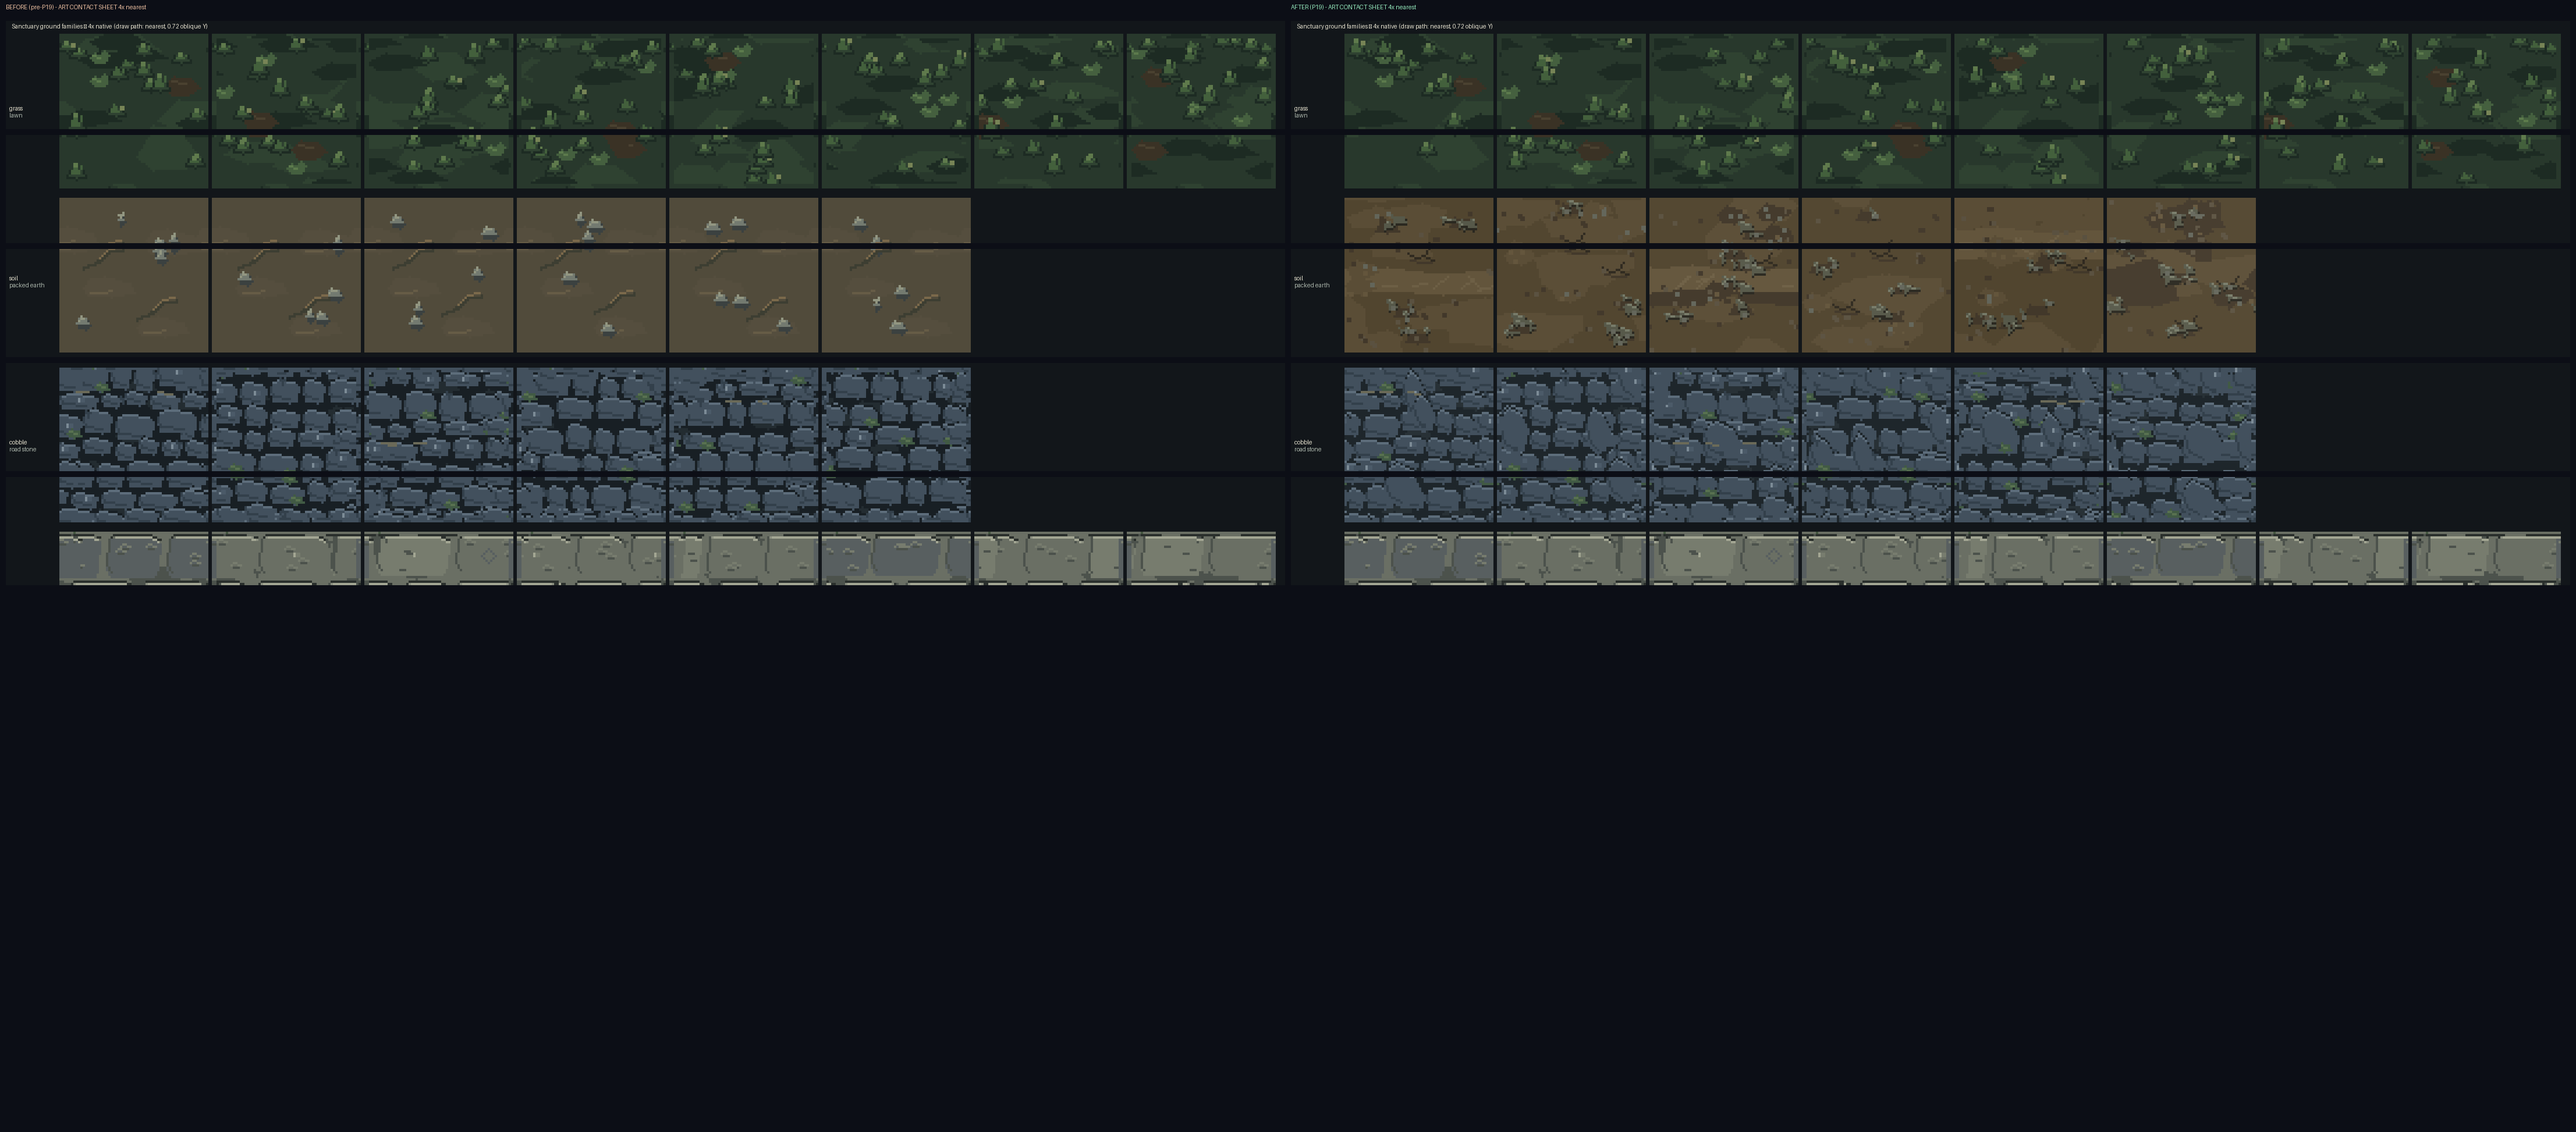
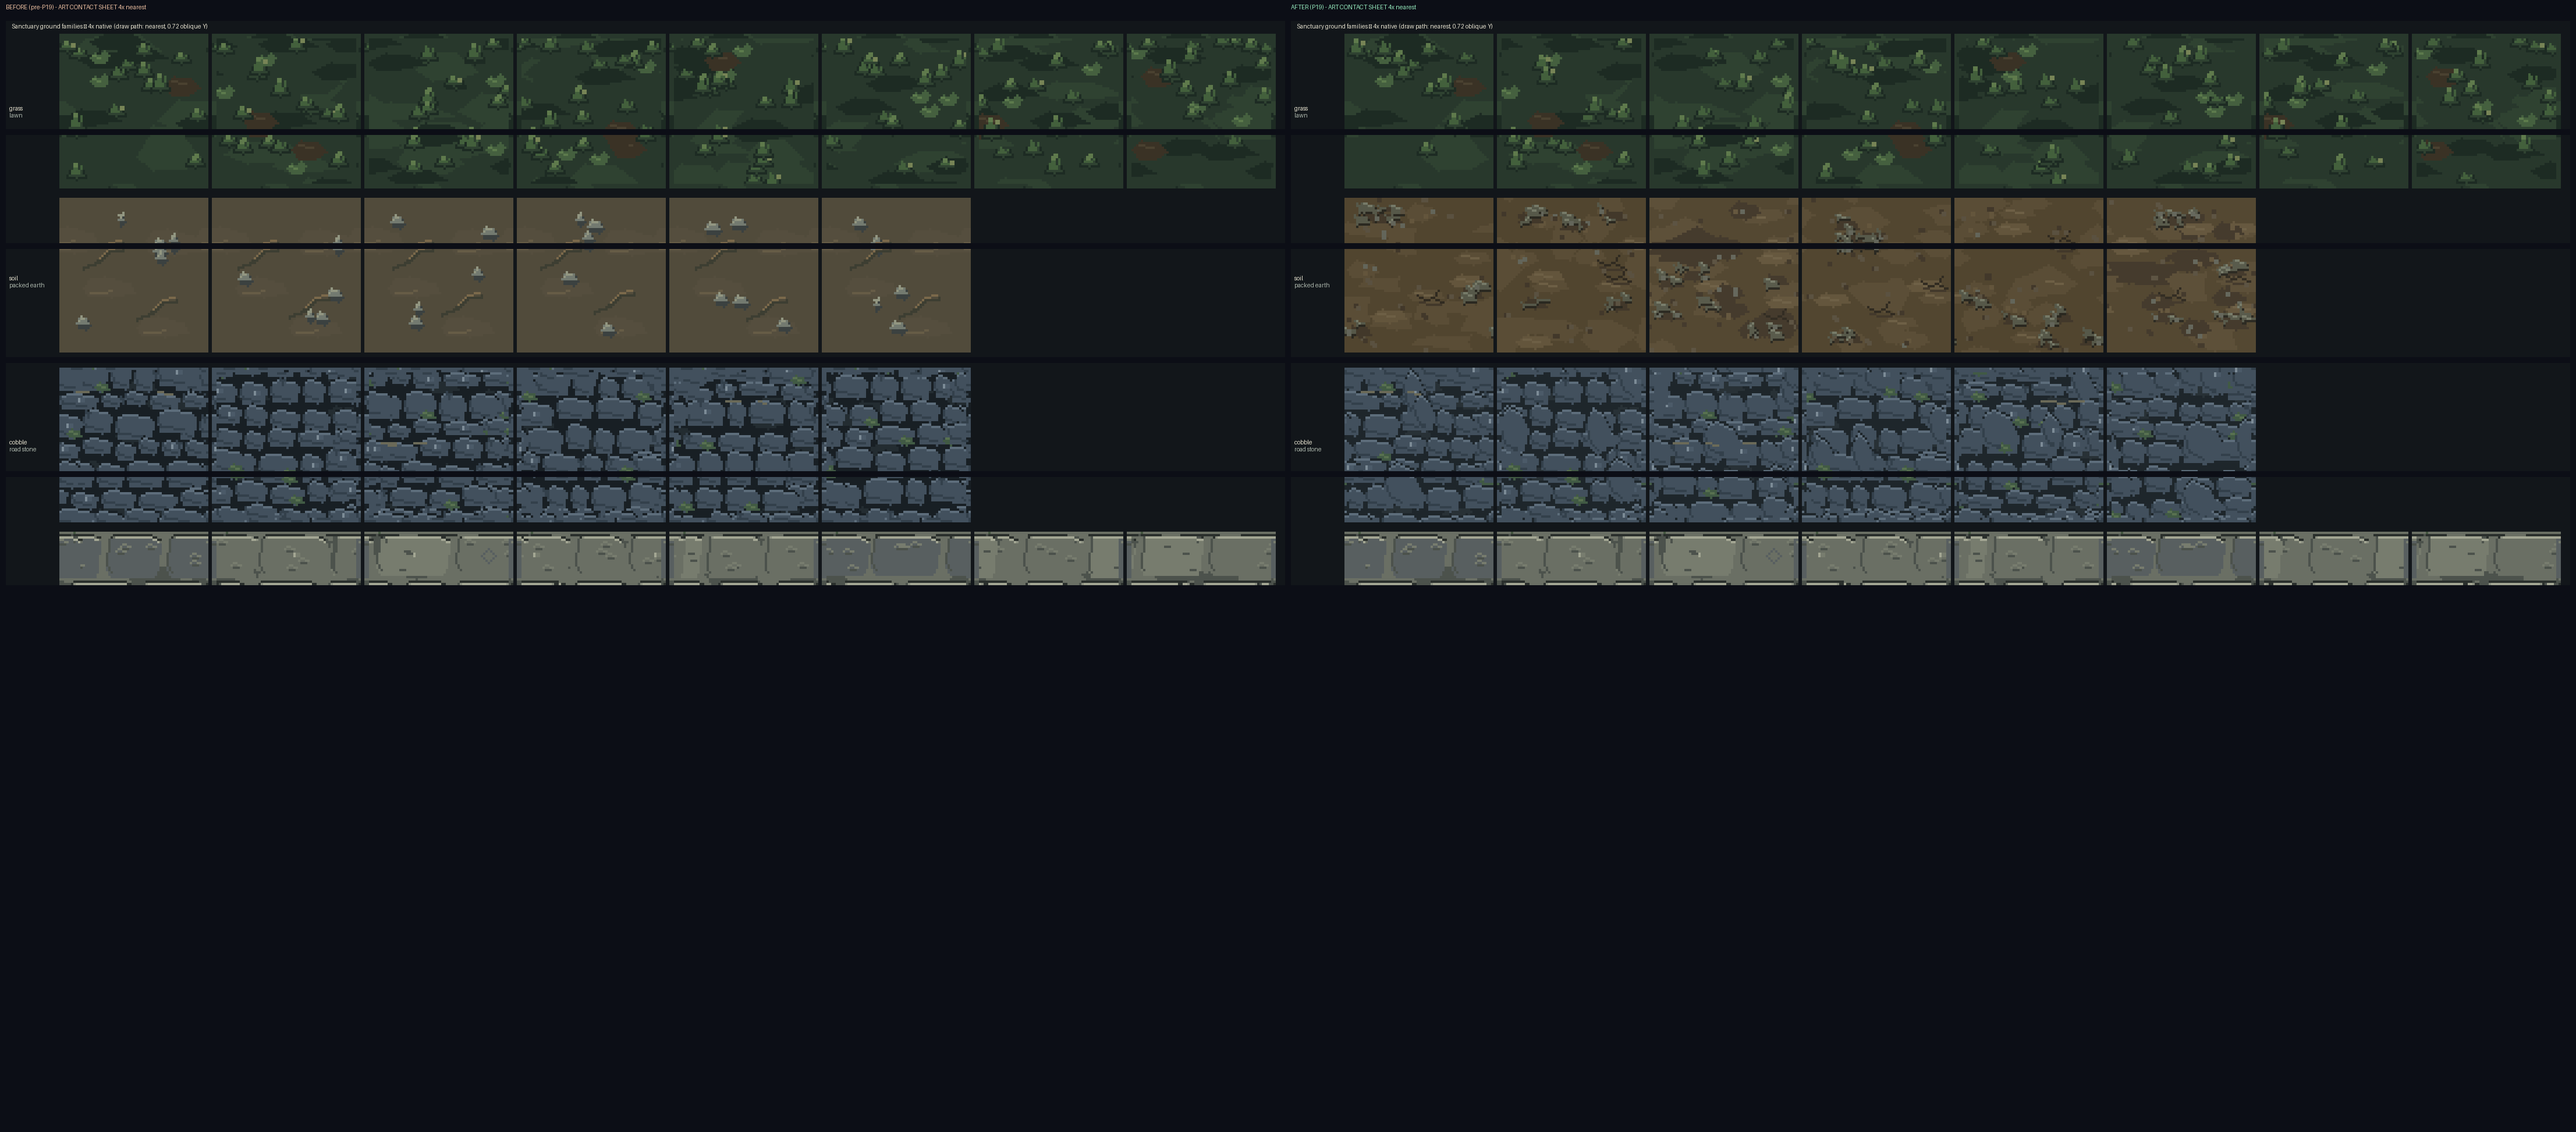
P19: docs + evidence composites (before/after contact sheet, real-engine side-by-side)

diff --git a/docs/art/P19_REPORT_VI.md b/docs/art/P19_REPORT_VI.md
@@ -1,0 +1,108 @@
+# P19 — Báo cáo (tiếng Việt): độ đồng nhất bề mặt nền
+
+**Phạm vi:** chỉ art. Không đổi layout, độ rộng đường, anchor công trình, cửa vào, collision,
+camera (`OBLIQUE_Y_SCALE = 0.72`), vị trí prop hay logic gameplay. Batch 4×4 cỏ của P16,
+culling đường và nearest sampling giữ nguyên.
+
+## 1. Chẩn đoán (render thật, camera cố định)
+
+Camera cố định trong `MapForgeTerrainRenderTest` (0.36 / 0.88 / 1.00 / 1.48) → hai bộ
+`engine-render-before/` (main) và `engine-render/` (P19) so sánh trực tiếp được.
+
+| # | Lỗi thấy trong renderer thật | Bằng chứng |
+|---|---|---|
+| 1 | Sàn bãi tập là mảng nâu phẳng + đốm sáng 1 px rải rác → phẳng và "procedural" hơn hẳn cỏ/đường của P18 | `terrain_training_default.png`, `terrain_training_close.png` |
+| 2 | Dải sỏi giữa cỏ và cát chỉ là confetti, không đọc ra "đá nhỏ", nên chuyển chất liệu cỏ→sỏi→đất bị gãy | `terrain_arena_rim.png` |
+| 3 | Mạch vữa cobble chạy thành dải ngang hết bề rộng tile → ở 1.48 đường đọc như tường gạch | `terrain_road_joints_close.png`, `tiles_seams_5x5_before.png` |
+| 4 | Cụm cỏ đều cỡ, pixel sáng nhất vẫn bật cả ở cụm nhỏ → 1.48 hơi "đốm", 0.36 hơi rậm | `terrain_lawn_close.png` |
+
+Số liệu gốc (`tiles_stats_before.json`): soil 8 màu/variant, gravel 6, grass 8–10,
+cobble 9–10, flagstone 9. 8 màu không đủ để có base → shade → highlight → vữa → sạn.
+
+## 2. Đã thay gì
+
+### `soil_0..5` (viết lại, 64×64 RGBA, seamless)
+- **3 thang giá trị**: mảng đất nhỏ (6–14 px, lệch 1 bậc), vệt đầm nén ngắn/đứt (không bao
+  giờ thành dải hết bề rộng), 3–5 cụm sỏi nằm trong vùng đất bị xáo.
+- Sỏi: bóng tiếp xúc dưới-phải, thân, 1 px rim sáng trên-trái; tông xám lạnh để ăn nhập bộ
+  từ vựng cobble.
+- Vết nứt khô 1 px (có đường shade bên cạnh), sạn mịn tương phản thấp.
+- 8 → **11 màu**/variant. **Cân bằng tông giữa các variant** (xem §3).
+
+### `gravel_0..3` (viết lại)
+- 6–8 cụm × 2–5 viên sỏi trên nền đất thô; rêu chỉ ở 2 variant ẩm.
+- Mật độ tiết chế để chân hero nhỏ không bị "nuốt" ở 0.88.
+- 6 → **9–11 màu**/variant, giá trị đá tương thích cobble nhưng ít hình học hơn.
+
+### `cobble_0..5` (chỉ tinh chỉnh mạch)
+- Thêm 3–4 **break stone**/tile bắc qua ranh giới lớp → cắt dải vữa liền mạch thành đoạn ngắn.
+- Vữa thu còn 1–2 px, nâng từ `#181f24` → `#1e262b` (giảm tương phản "báo đốm").
+- Không đổi số đá, mask đường, độ rộng hay culling.
+
+### `grass_0..7` (chỉ mật độ)
+- 10–13 cụm (trước 12–16), dịch phân bố về cỡ trung, pixel sáng nhất chỉ bật ở cỡ > 0,
+  3 cụm focal thay vì 2. Cách ghép block 4×4 không đổi.
+
+### Sinh asset
+`tools/mapforge_ground.py` (mở rộng, deterministic, chạy offline). Helper mới: `pebble()`,
+`pebble_cluster()`, `mean_luma()`, `equalize_tone()`. Manifest `sha256`/`size` làm mới;
+`tools/validate_assets.py` PASS.
+
+## 3. Hai lỗi do chính pass này gây ra và đã sửa
+
+1. **Khung viền 2 px.** Bước copy viền dùng chung của P18 dán viền variant 0 vào mọi tile.
+   Với vật liệu đất có mảng lớn, viền đó không khớp ruột tile → hiện **khung chữ nhật** quanh
+   từng tile soil/gravel. Đã cho 2 family đất **opt-out** (`shared = False`); grass/cobble/
+   flagstone vẫn giữ.
+2. **Bàn cờ theo variant.** Bản đầu cho một số variant nền tối hơn + dải đầm nén hết bề rộng.
+   Vì renderer chọn variant bằng hash, bãi tập thành **khung bàn cờ 56 px** ở 0.88. Sửa bằng:
+   (a) thu mọi feature đất xuống nhỏ hơn tile, (b) bỏ chênh lệch giá trị giữa variant,
+   (c) `equalize_tone()` kéo trung bình luma từng variant về variant 0 (lệch tối đa ±12, chỉ
+   cộng offset đều 3 kênh nên không đổi hue). Đo lại: soil 74.8–75.3, gravel 69.1–69.3.
+
+## 4. Bằng chứng
+
+`docs/visual-evidence/p19/`
+
+| file | nhãn |
+|---|---|
+| `engine_before_after.png` | **REAL ENGINE RENDER** cạnh nhau (bãi tập 0.88, cobble 1.48) |
+| `engine-render/*.png` | **REAL ENGINE RENDER** — asset P19, 8 camera cố định |
+| `engine-render-before/*.png` | **REAL ENGINE RENDER** — asset main (trước P19), cùng 8 camera |
+| `before_after_side_by_side.png` | **ART CONTACT SHEET** — 4× nearest |
+| `tiles_contact_1x_*`, `tiles_contact_4x_*` | **ART CONTACT SHEET** |
+| `tiles_mosaic_*` | **ART CONTACT SHEET** — mosaic oblique 0.36/0.88/1.48 |
+| `tiles_seams_5x5_*` | **SEAM CHECK** — mỗi variant lát 5×5 ở 1× |
+| `tiles_stats_*.json` | số màu/variant |
+
+## 5. Build & QA
+
+- `tools/validate_assets.py` → PASS (package `com.aistudio.eternalsummoner.kvrpzm`)
+- `tools/validate_lyra_pack.py` → PASS
+- CI `assembleDebug` và render job: xem mục "Build/QA status" trong PR #22 (run ID ghi kèm).
+- **FPS / nhiệt lượng thiết bị: NOT TESTED** (không có máy thật hay emulator có
+  instrumentation trong môi trường này).
+- Test đề xuất trên máy: pan/zoom cố định 0.36/0.88/1.48 trong 5 phút, ghi frame pacing,
+  RAM và nhiệt so với build trước; dừng nếu throttle.
+
+## 6. Ảnh hưởng RAM / runtime
+
+- Số asset **không đổi**: grass 8, cobble 6, flagstone 8, soil 6, gravel 4, verge, oak.
+  Không thêm file/family, không đổi contract manifest.
+- RAM decode **không đổi**: 34 asset 64×64×4 B ≈ 0,55 MB + oak ≈ 61 KB + 27 block cỏ
+  (256×184×4 B) ≈ 5,1 MB — giống P18/P16.
+- Draw call **không đổi**: cùng số tile, cùng nhánh block 4×4, cùng culling. Không sinh PNG
+  lúc runtime, không cấp phát mới trong draw loop, không thêm pass blend, không shader.
+- Dung lượng PNG trên đĩa **không phải** RAM; các số trên là ước lượng decode, **không phải**
+  đo trên thiết bị.
+
+## 7. Điểm còn yếu
+
+- Dải sỏi ở quy mô đảo khá mỏng → chi tiết mới chỉ đọc rõ ở 1.48; muốn rộng hơn phải đổi
+  layout (ngoài phạm vi).
+- Viền bãi tập vẫn là dải màu phẳng của renderer (`0xFF4A3D2E`), giờ tương phản với đất có
+  texture bên dưới; sửa là việc của renderer, không phải asset.
+- Cụm sỏi ở 1.48 vẫn hơi "giống con vật" trên nền quá phẳng; pass sau nên cho 2 cụm chồng
+  nhau để đọc thành đống đá vụn.
+- Soil/gravel giờ **tối hơn** "golden sand" cũ. Đúng brief (đất nén tối, tương phản dưới
+  actor) nhưng là thay đổi mood — cần review trên máy thật.

diff --git a/docs/art/P19_TERRAIN_COHESION.md b/docs/art/P19_TERRAIN_COHESION.md
@@ -1,0 +1,107 @@
+# P19 — Terrain cohesion: soil + gravel families, cobble joints, grass density
+
+Scope: art only. Sanctuary layout, path widths, obstacle anchors, entrances, collision,
+camera (`ObliqueCamera.OBLIQUE_Y_SCALE = 0.72`), prop positions and gameplay logic are
+untouched. P16 batching (4×4 grass blocks, conservative road culling) and nearest sampling
+are unchanged.
+
+## 1. Diagnosis (real engine renders, fixed cameras)
+
+Cameras are fixed in `MapForgeTerrainRenderTest` (0.36 / 0.88 / 1.00 / 1.48), so
+`engine-render-before/` (main) and `engine-render/` (P19) are directly comparable.
+
+| # | Defect seen in the real renderer | Evidence |
+|---|---|---|
+| 1 | Training arena floor is a flat tan field plus scattered 1 px light specks; visibly flatter/more procedural than the P18 lawn and road | `terrain_training_default.png`, `terrain_training_close.png` |
+| 2 | The gravel band between lawn and sand reads as speckle confetti, not stones, so the material change lawn→gravel→sand has no vocabulary | `terrain_arena_rim.png` |
+| 3 | Cobble courses form continuous full-width grout bands; at 1.48 the road reads as a brick wall | `terrain_road_joints_close.png`, `tiles_seams_5x5_before.png` |
+| 4 | Grass clumps are uniform in size and the brightest crown pixel fires on the smallest clumps → "dotty" at 1.48, crowded at 0.36 | `terrain_lawn_close.png` |
+
+Measured starting point (`tiles_stats_before.json`): soil 8 unique colours/variant, gravel 6,
+grass 8–10, cobble 9–10, flagstone 9. Eight colours cannot carry base → shade → highlight →
+mortar → grit, which is why the earth read as one flat value with stamps on top.
+
+## 2. What changed
+
+### `soil_0..5` (rewritten, 64×64 RGBA, seamless)
+- Three value scales: small organic earth masses (6–14 px, one value step), compaction
+  smears (short broken runs, never a full-width band), and 3–5 pebble clusters bedded in
+  disturbed ground.
+- Pebbles: contact shadow below-right, body, single upper-left rim pixel; cool grey values
+  so the arena shares the cobble vocabulary.
+- Occasional 1 px dry cracks with a shade line beside them, plus low-contrast grit runs.
+- 8 → 11 unique colours/variant.
+- **Tone equalised across variants** (see §3) so hash-picked neighbours do not quilt.
+
+### `gravel_0..3` (rewritten)
+- 6–8 clusters of 2–5 pebbles each on a rough dirt base, moss only in the two damp variants.
+- Density deliberately restrained so tiny hero feet are not swallowed at 0.88.
+- 6 → 9–11 unique colours/variant; stone values compatible with cobble but less geometric.
+
+### `cobble_0..5` (joint polish only)
+- Added 3–4 taller **break stones per tile that straddle a course boundary**, cutting the
+  full-width grout bands into short uneven runs.
+- Grout narrowed to 1–2 px and lifted from `#181f24` to `#1e262b` (less "leopard" contrast).
+- Stone count, road mask, road width and culling are untouched.
+
+### `grass_0..7` (density only)
+- 10–13 clumps instead of 12–16, scale distribution shifted to mid, brightest crown pixel
+  only on scale > 0, three focal clumps instead of two. Block recomposition is unchanged.
+
+### Generation
+`tools/mapforge_ground.py` (extended, deterministic, offline). New helpers: `pebble()`,
+`pebble_cluster()`, `mean_luma()`, `equalize_tone()`. Manifest `sha256`/`size` refreshed;
+`tools/validate_assets.py` PASS.
+
+## 3. Two defects introduced and fixed during this pass
+
+1. **Shared 2 px border frame.** The P18 family-adjacency copy pasted variant 0's border into
+   every tile. On low-frequency earth materials that border does not match the interior and
+   painted a visible rectangle around each soil/gravel tile. Earth families now opt out
+   (`shared = False`); structured materials (grass/cobble/flagstone) keep it.
+2. **Hash-variant checkerboard.** First attempt gave some variants a darker base and a
+   full-width compaction band. Because the renderer picks variants by hash, the arena became
+   a quilt of 56 px squares at 0.88. Fixed by (a) shrinking all earth features below the tile
+   scale, (b) removing variant-level value shifts, (c) `equalize_tone()` normalising each
+   variant's mean luma to variant 0 (max shift ±12, hue untouched — only a per-channel
+   offset). Measured after: soil 74.8–75.3, gravel 69.1–69.3 mean luma.
+
+## 4. Evidence
+
+`docs/visual-evidence/p19/`
+
+| file | label |
+|---|---|
+| `engine_before_after.png` | **REAL ENGINE RENDER** side-by-side (training arena 0.88, cobble 1.48) |
+| `engine-render/*.png` | **REAL ENGINE RENDER** — P19 assets, 8 fixed cameras |
+| `engine-render-before/*.png` | **REAL ENGINE RENDER** — main (pre-P19) assets, same 8 cameras |
+| `before_after_side_by_side.png` | **ART CONTACT SHEET** — 4× nearest |
+| `tiles_contact_1x_*`, `tiles_contact_4x_*` | **ART CONTACT SHEET** |
+| `tiles_mosaic_*` | **ART CONTACT SHEET** — 4×4 oblique mosaic at 0.36/0.88/1.48 |
+| `tiles_seams_5x5_*` | **SEAM CHECK** — every variant tiled 5×5 at 1× |
+| `tiles_stats_*_json` | unique colours per variant |
+
+## 5. Performance / memory
+
+- Asset counts unchanged: grass 8, cobble 6, flagstone 8, soil 6, gravel 4, verge, oak.
+  No new files, no new families, no manifest contract change.
+- Decoded RAM unchanged: 34 assets at 64×64×4 B ≈ 0.55 MB, plus oak (112×136×4 ≈ 61 KB) and
+  the 27 grass blocks (256×184×4 ≈ 5.1 MB) — all identical to P18/P16.
+- Draw calls unchanged: same tiles, same 4×4 block path, same road culling. No runtime PNG
+  generation, no per-tile allocations in the draw loop, no extra blending passes, no shader.
+- PNG disk size is not RAM; the numbers above are decoded estimates, **not** device
+  measurements.
+- Recommended on-device acceptance test (NOT performed here): fixed pan/zoom at
+  0.36/0.88/1.48 for 5 minutes, log frame pacing, memory and thermal against the previous
+  build; stop on throttling.
+
+## 6. Remaining weaknesses
+
+- The gravel band is thin at island scale, so its new material detail is only readable at
+  1.48; a wider band would need a layout change (out of scope).
+- The arena lip is a flat renderer-colour band (`0xFF4A3D2E`) that now contrasts with the
+  textured soil underneath; tuning it is renderer work, not asset work.
+- Pebble clusters are still slightly "creature-like" at 1.48 on very flat ground; a later
+  pass could add two-cluster overlap so silhouettes read as rubble piles.
+- Soil/gravel are now darker than the old "golden sand". This follows the brief (dark packed
+  earth, contrast below actors) but it is a mood change reviewers should confirm on device.
